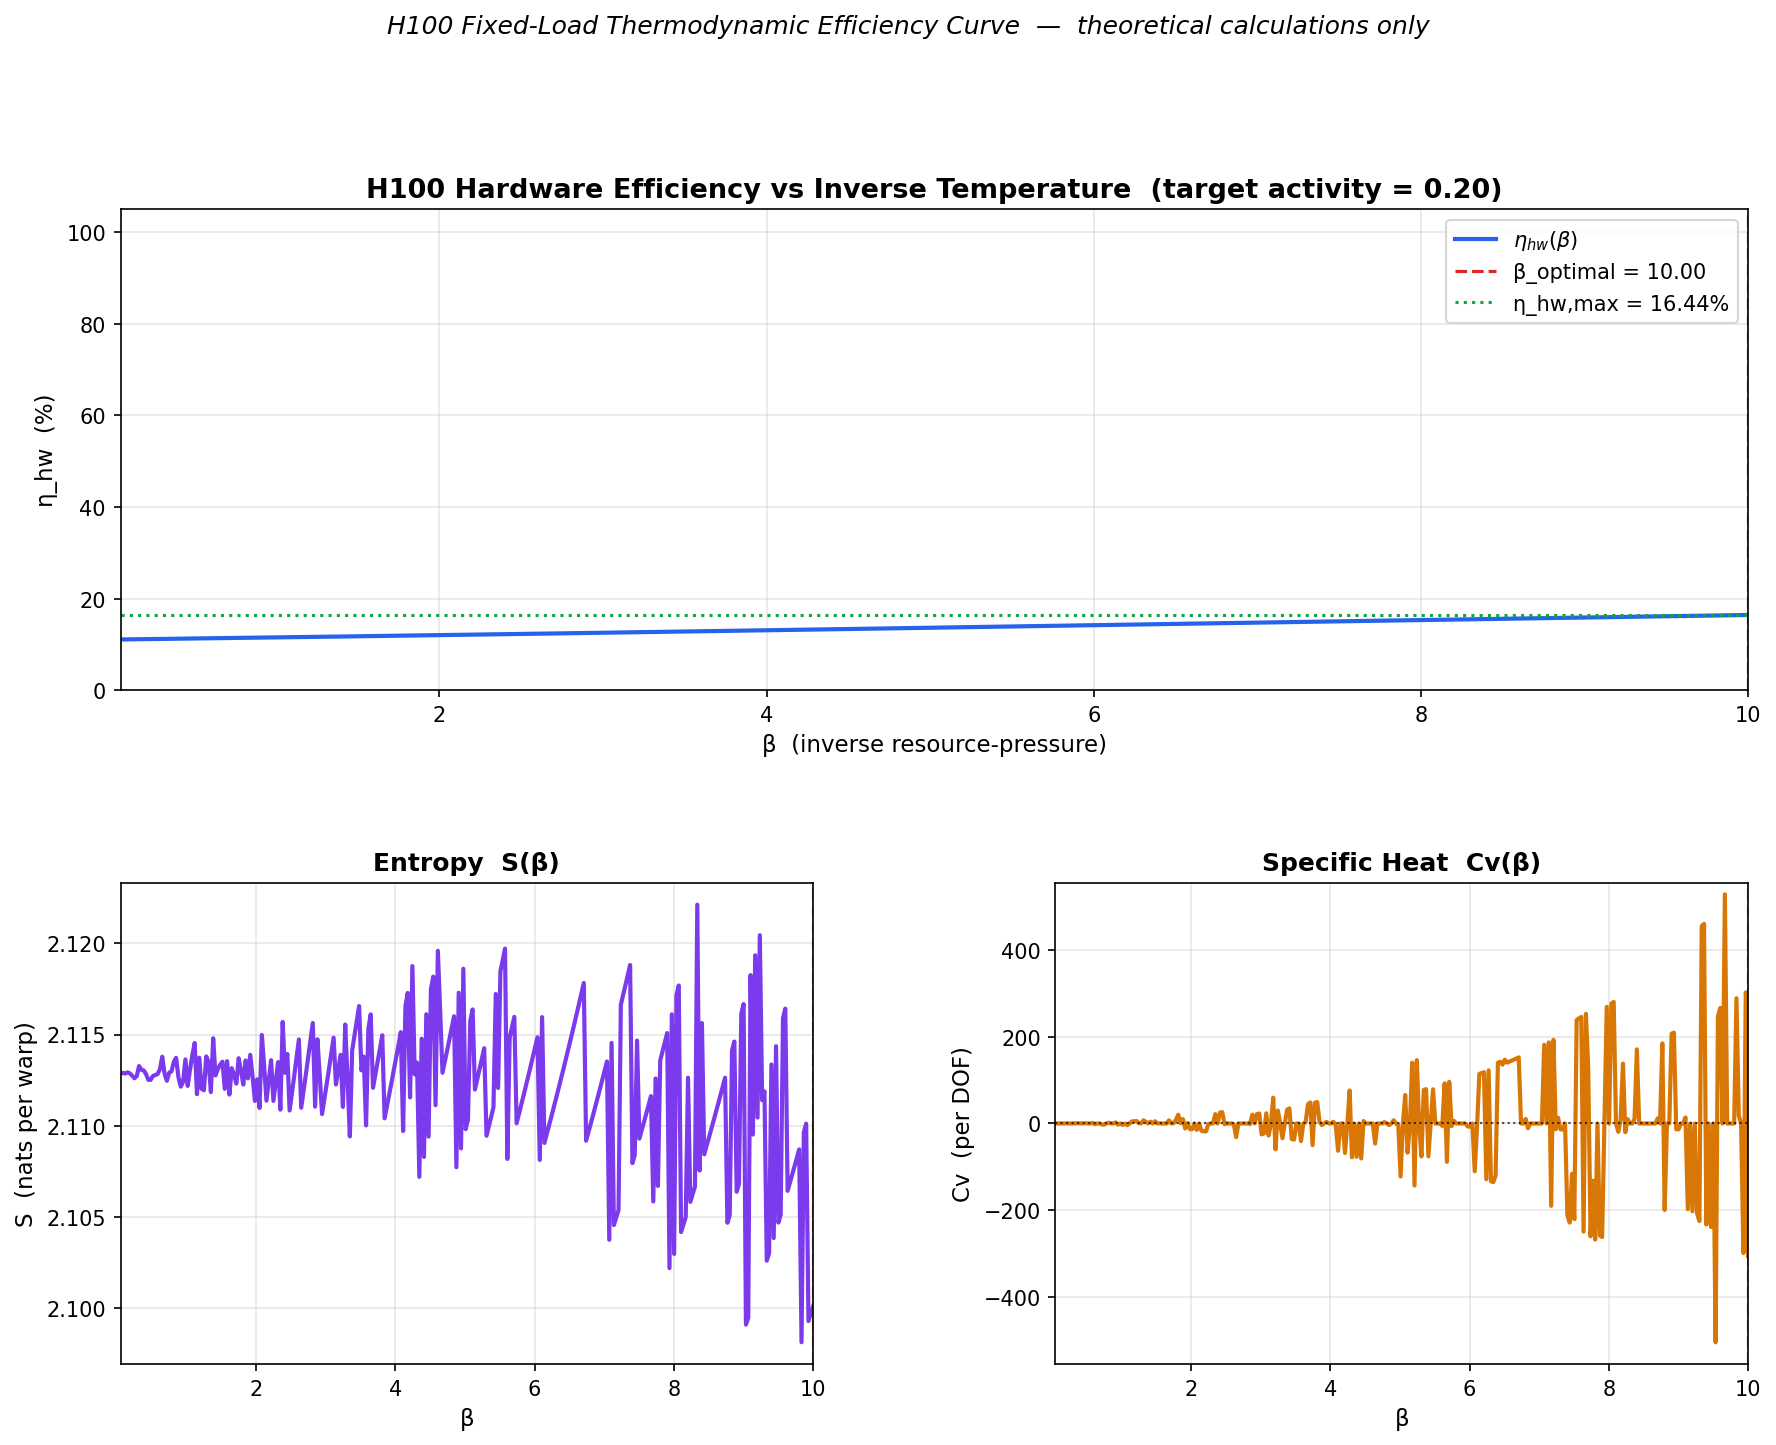
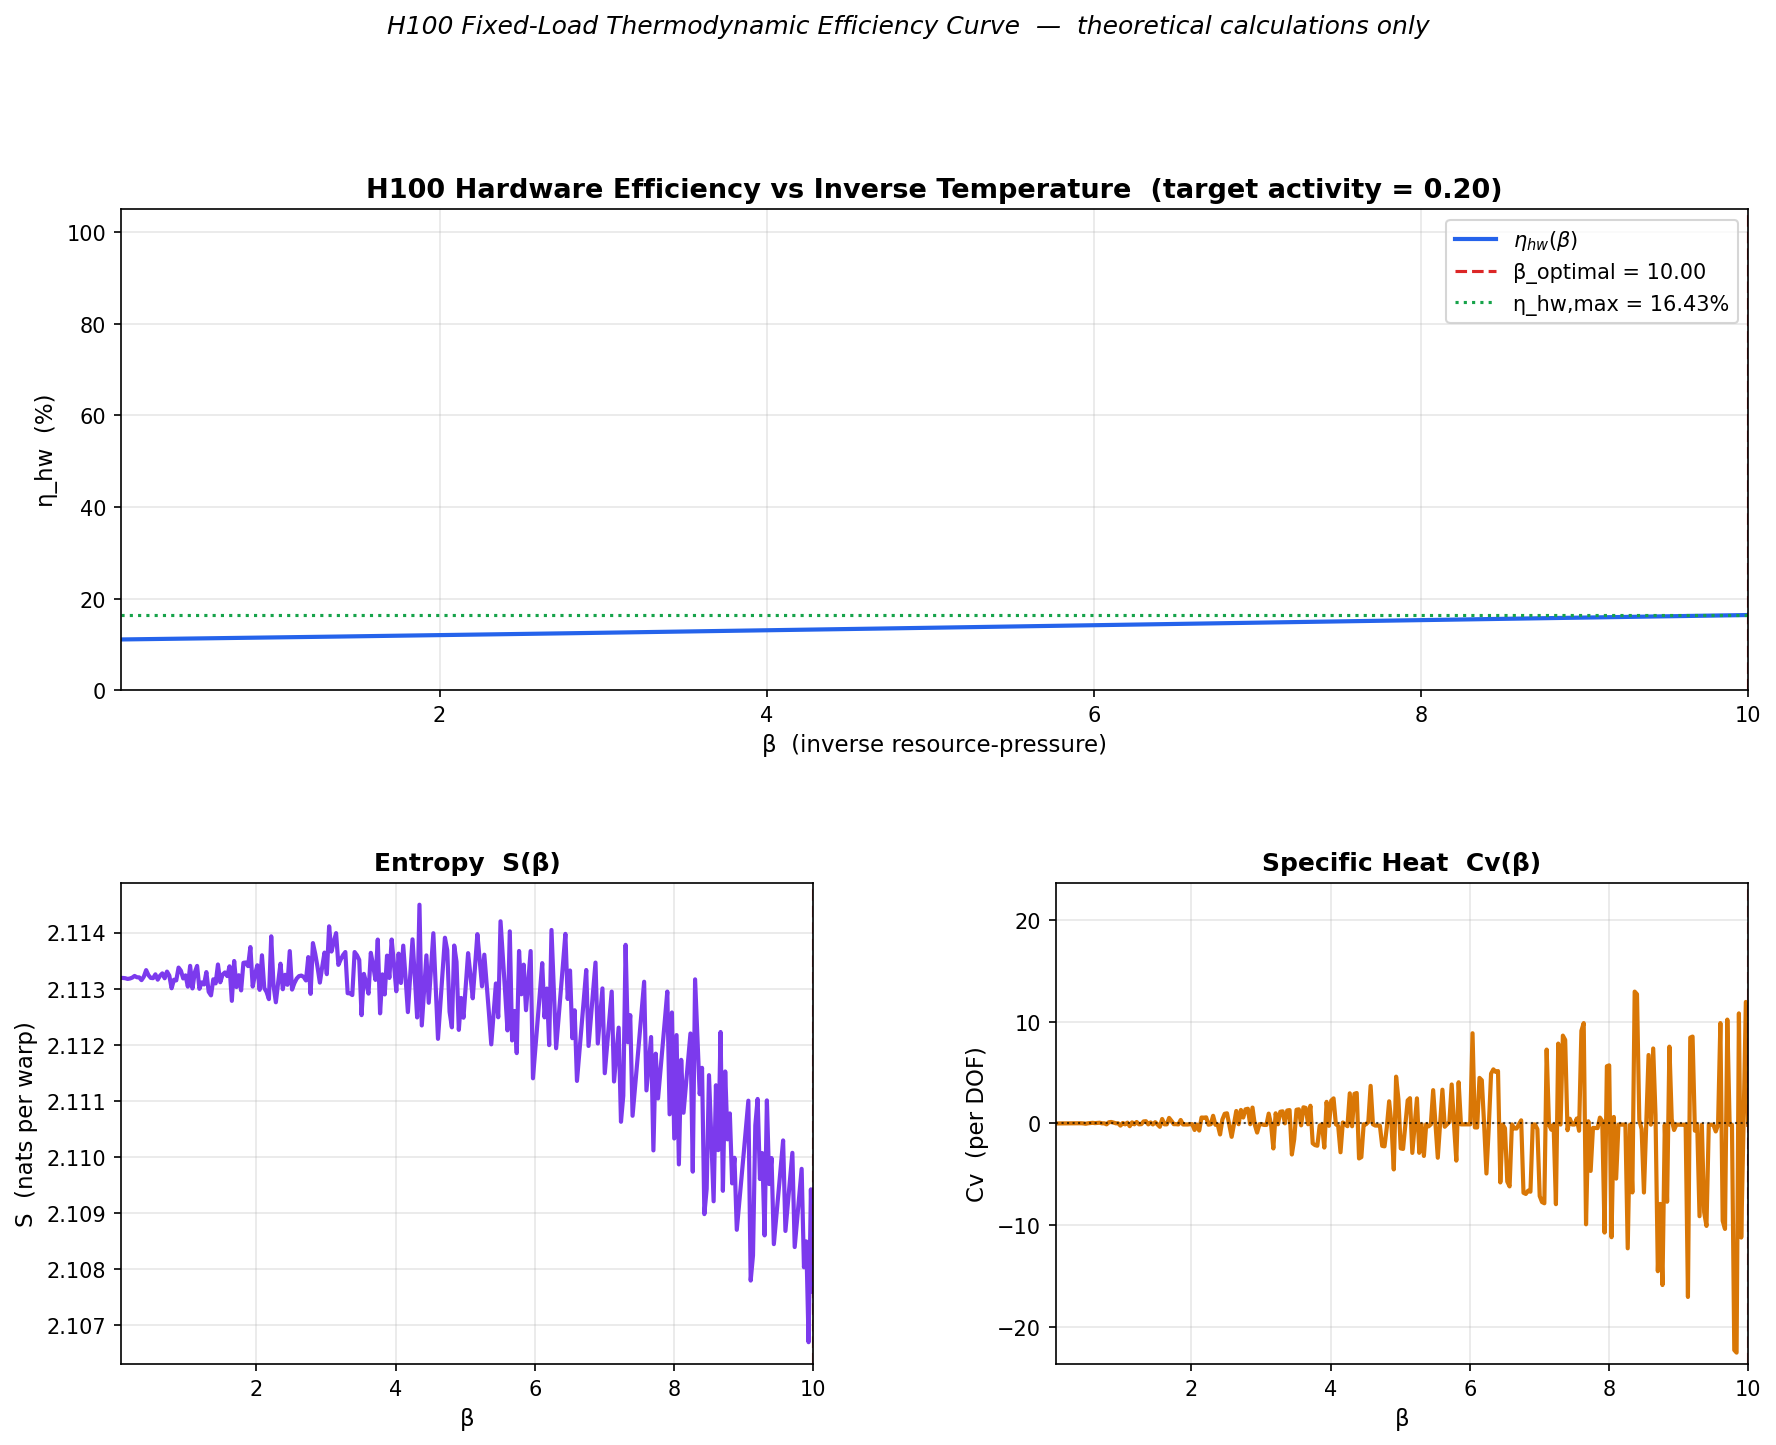
Further smooth experiment 01 diagnostics

diff --git a/experiments/theoretical_calculations/01_carnot_curve.py b/experiments/theoretical_calculations/01_carnot_curve.py
@@ -47,8 +47,8 @@ print("=" * 60)
 
 target_activity = 0.20
 betas = np.linspace(0.05, 10.0, 300).tolist()
-N_BINS = 128
-D_BETA = 1e-3
+N_BINS = 256
+D_BETA = 5e-3
 print(f"  β sweep: {betas[0]:.2f} → {betas[-1]:.2f}  ({len(betas)} points)")
 print(f"  fixed target activity: {target_activity:.2f}")
 print(f"  numerical settings: n_bins={N_BINS}, d_beta={D_BETA:.0e}")

diff --git a/experiments/theoretical_calculations/README.md b/experiments/theoretical_calculations/README.md
@@ -35,18 +35,21 @@ target activity and plots `eta_hw(beta) = <W_hw>/<E_in>`, `S(beta)`,
 `Cv(beta)`, the decomposed `ln Z` components, and the solved work field `h(beta)`.
 
 **Key result:** At `target_activity = 0.20`, the current fixed-load model
-with the first-order memory-feed closure reaches **16.46%** at the upper end
+with the first-order memory-feed closure reaches **16.43%** at the upper end
 of the default sweep (`beta = 10.0`). The load closure is now well-defined,
 and the compute-memory coupling is no longer missing from the single-GPU
 path, but the present normalized energy tables still do not produce an
-interior beta optimum. The roofline ridge point (0.51 FLOP/byte) is still
-recovered exactly from the Carnot arithmetic-intensity condition — ratio = 1.0000.
+interior beta optimum. The plotted entropy and specific-heat diagnostics now
+use a higher-resolution memory grid (`n_bins = 256`) and a wider derivative
+stencil (`d_beta = 5e-3`) so the curves are numerically smoother. The roofline
+ridge point (0.51 FLOP/byte) is still recovered exactly from the Carnot
+arithmetic-intensity condition — ratio = 1.0000.
 
 | Quantity | Value |
 |---|---|
-| η_hw,max | 16.46% |
+| η_hw,max | 16.43% |
 | β_optimal | 10.0 |
-| h*(β_opt) | 3.6844 |
+| h*(β_opt) | 3.6909 |
 | target activity | 0.20 |
 | Roofline ridge | 0.51 FLOP/byte |
 | Naive Carnot η (T_reg/T_HBM) | 99.83% |

diff --git a/experimental_log.md b/experimental_log.md
@@ -89,3 +89,12 @@
   - `CP` shows a modest but visible split between NVLink/NVSwitch and slower fabrics.
   - `TP` finally behaves like a real stress case: PCIe Gen5 ring and InfiniBand fat-tree become infeasible by `TP16`, while NVLink/NVSwitch stay feasible through `TP32`.
 - This is the first experiment-03 version that makes the communication-demand closure visibly useful on the plots instead of only in the equations.
+
+### Experiment 01 numerical smoothing
+
+- Increased the numerical resolution used by `experiments/theoretical_calculations/01_carnot_curve.py` for the plotted diagnostics:
+  - `n_bins = 256`
+  - `d_beta = 5e-3`
+- Also stopped clipping the plotted `Cv(β)` to non-negative values; the panel now shows the signed quantity around a zero reference line.
+- This does not change the qualitative theory. It only reduces derivative noise in the displayed `S(β)` and `Cv(β)` curves.
+- With the smoother settings, the reported fixed-load single-GPU ceiling is `16.43%` at `beta = 10.0`.
